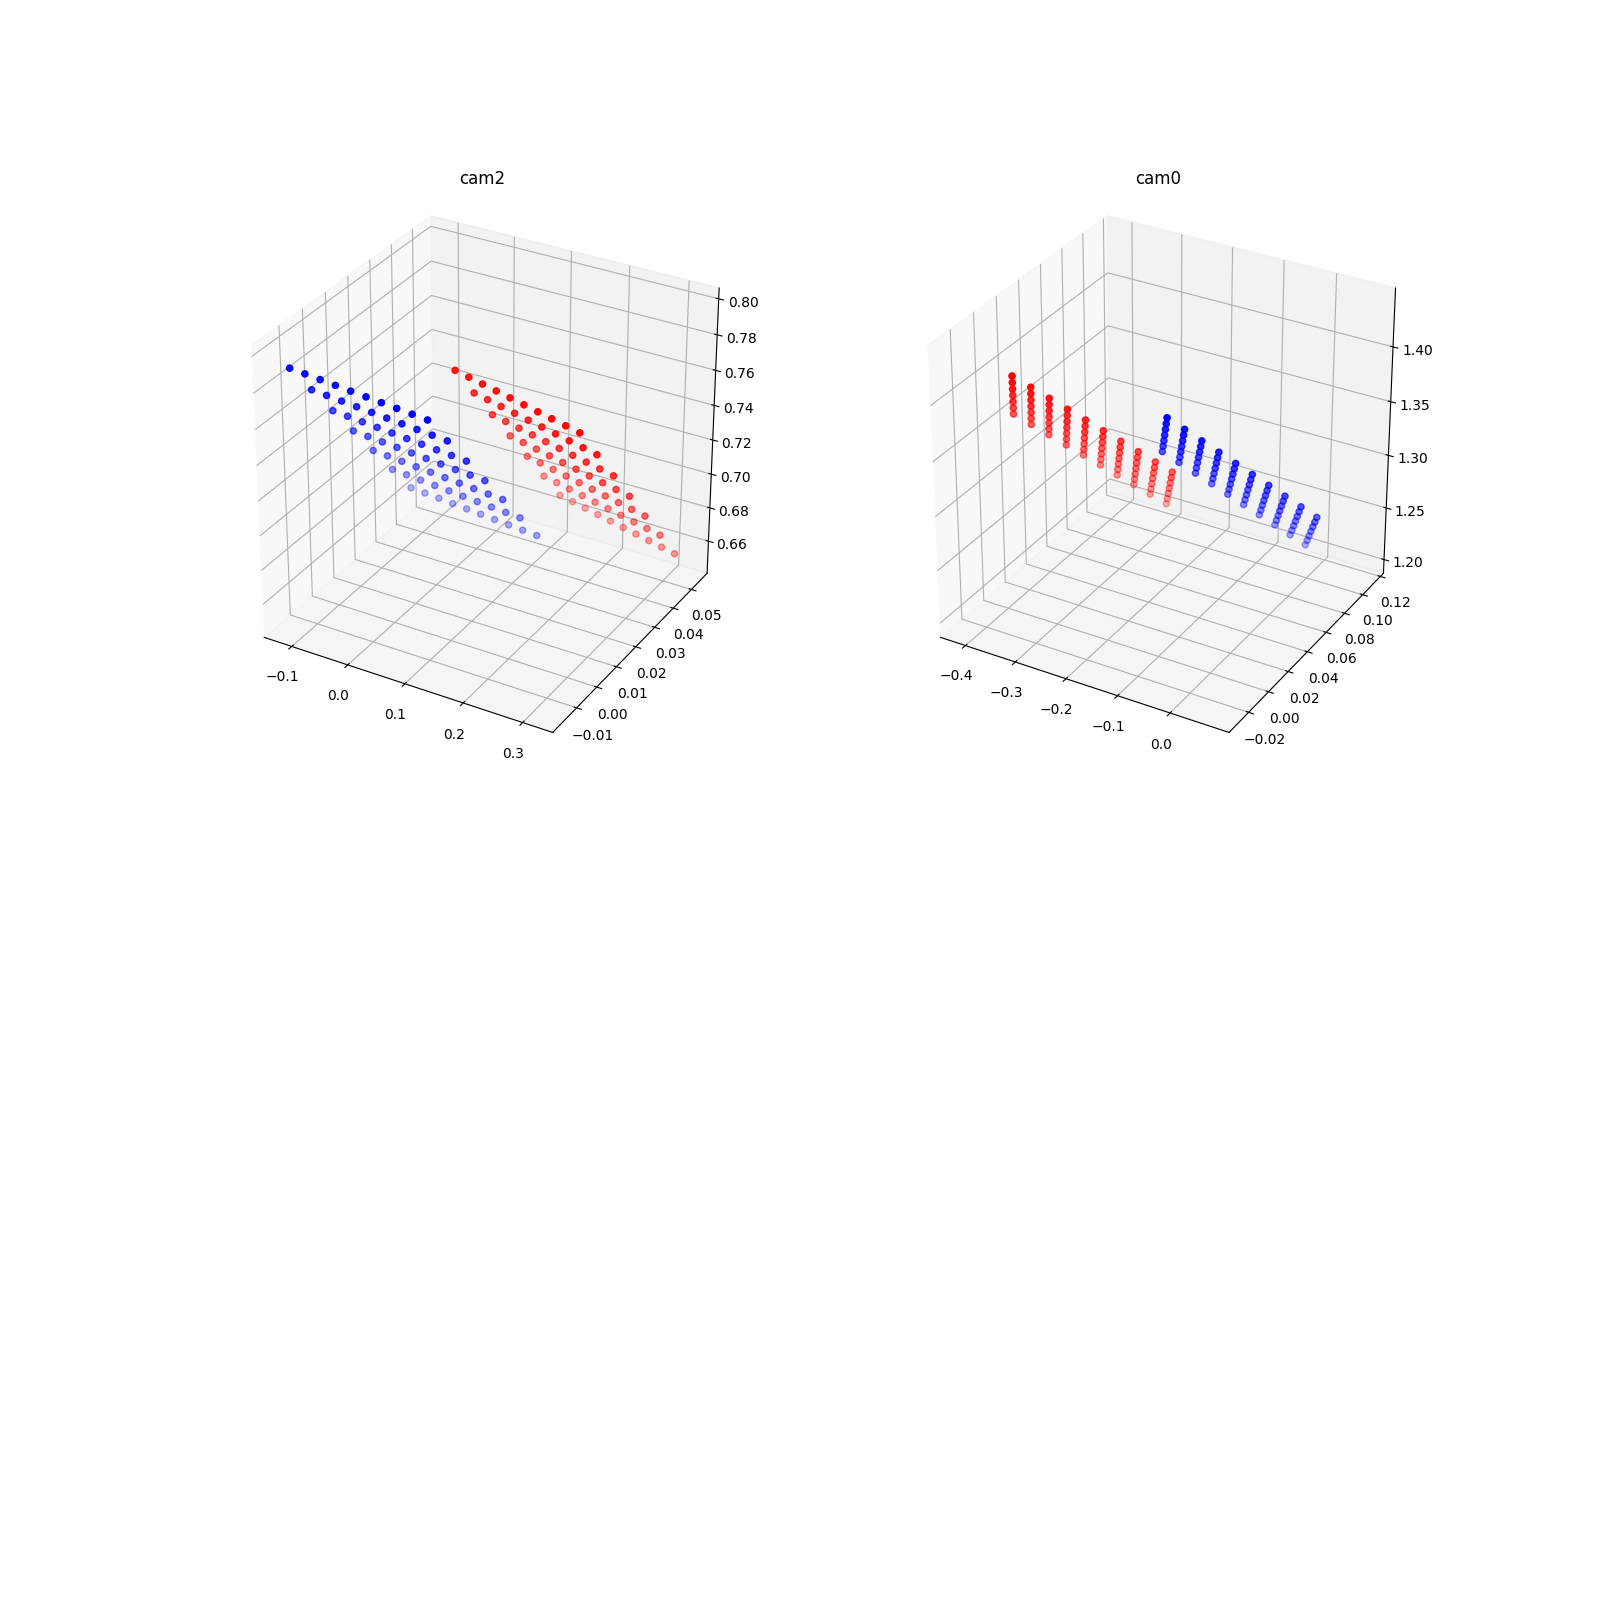
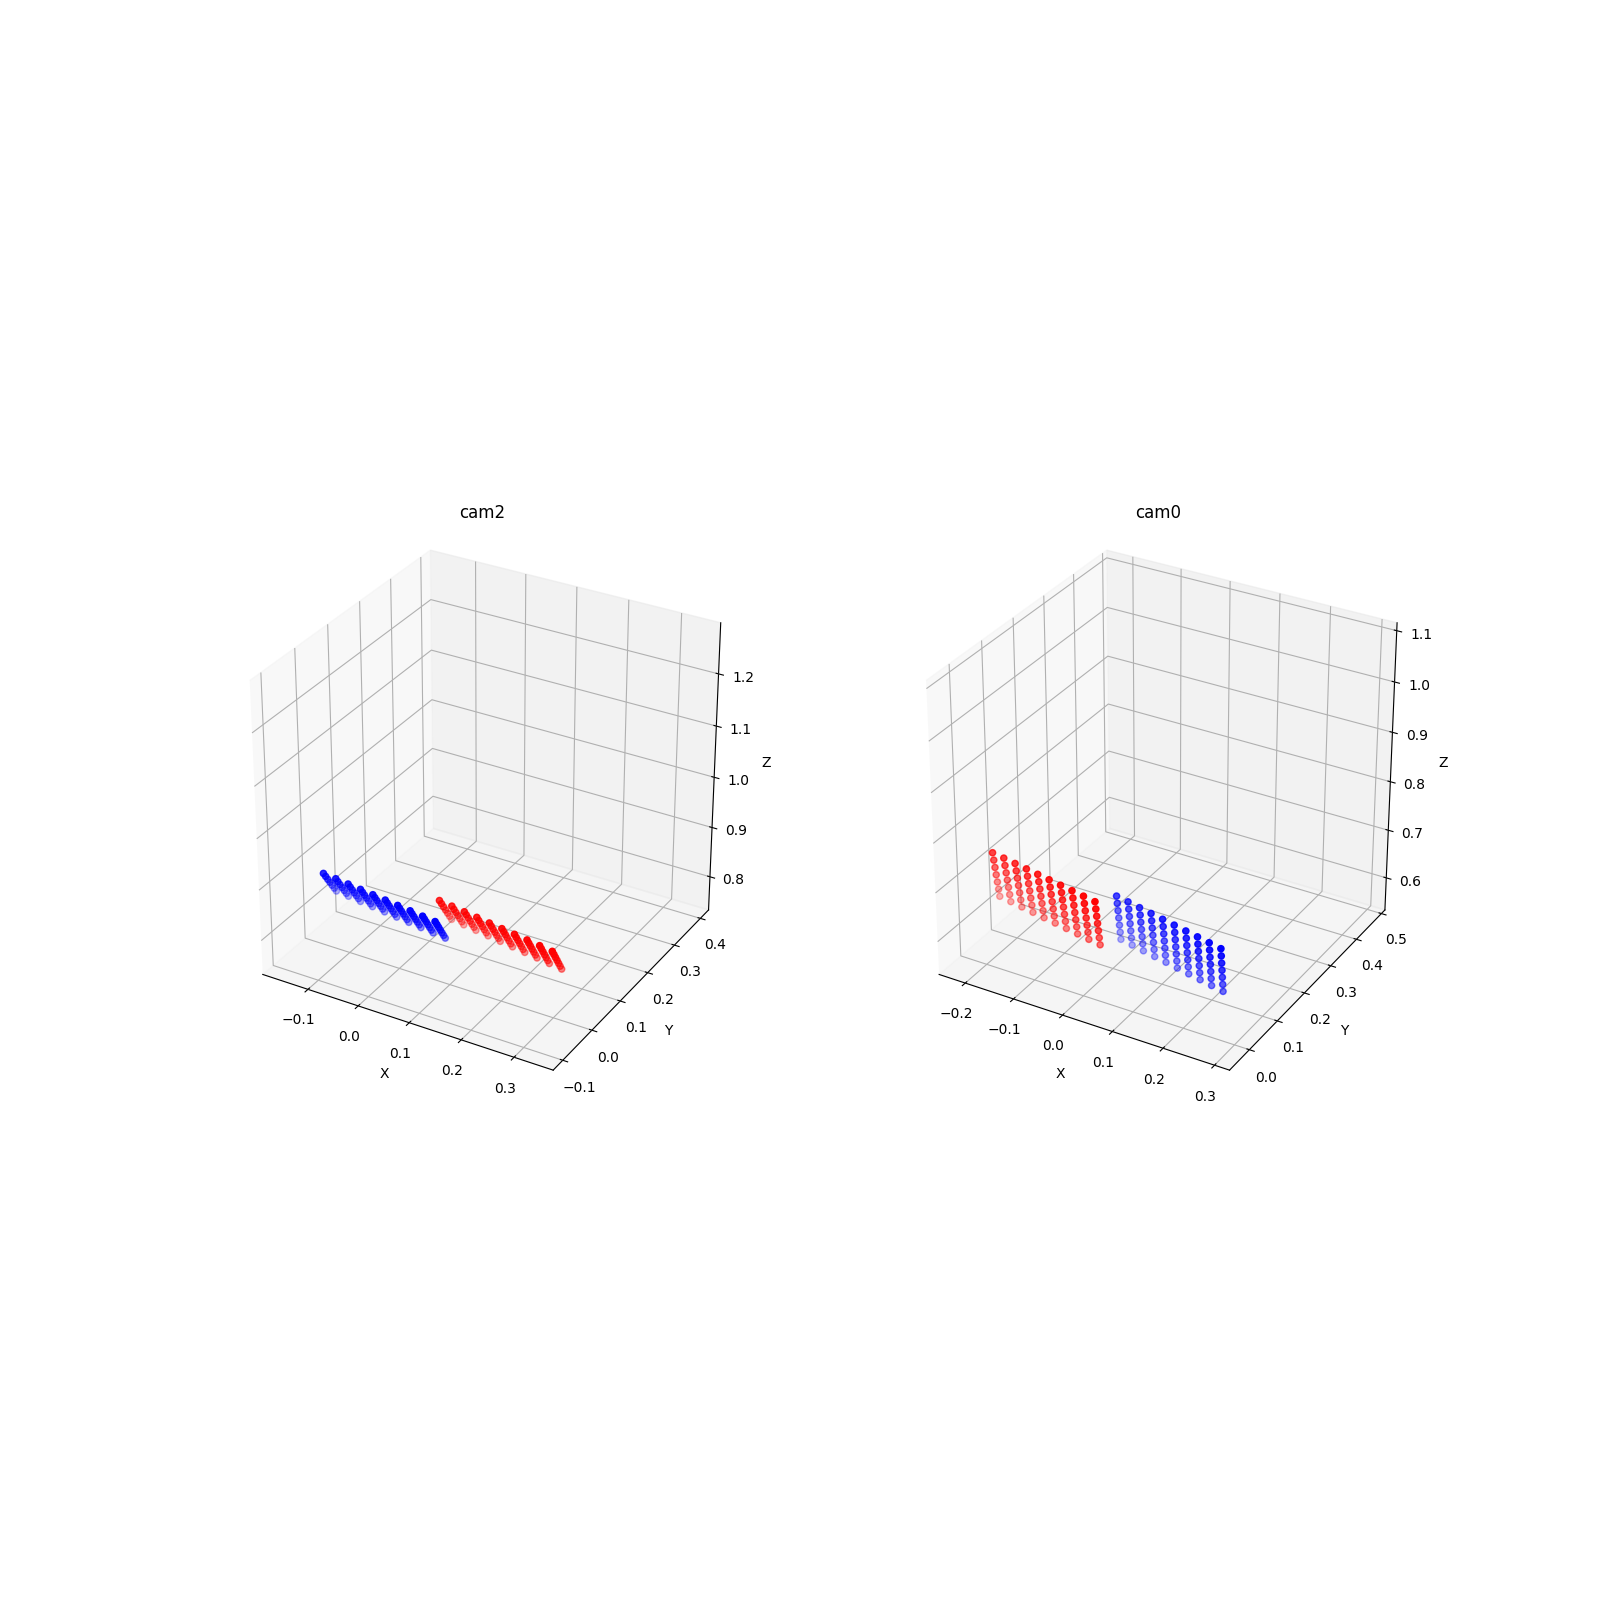
Modify the external virtual

diff --git a/Callibration/visualize_ext.py b/Callibration/visualize_ext.py
@@ -21,6 +21,7 @@ def visualize(settings, fig, elev, azim, roll, i):
         transformation_matrices[camera_name] = transformation_matrix
             
     ax = fig.add_subplot(1, 3, i, projection='3d', elev=elev, azim=azim, roll=roll)
+    ax.set_box_aspect([1,1,1])
     length = 0.5
     width = 0.5
     height = 0.5
@@ -96,28 +97,46 @@ def chessboard_projection(settings):
                 ret_center,rvecs_center, tvecs_center = cv2.solvePnP(objp, corners_center, mtxs[camera_name], dists[camera_name])
                 ret_cam,rvecs_cam, tvecs_cam = cv2.solvePnP(objp, corners_cam, mtxs[center_camera], dists[center_camera])
                 if ret_center == True and ret_cam == True:
-                    ax = fig.add_subplot(2, 2, i, projection='3d')
-                    transformation_matrix_center = np.eye(4)
                     R_cam, _ = cv2.Rodrigues(rvecs_cam)
                     R_center, _ = cv2.Rodrigues(rvecs_center)
+                    transformation_matrix_center = np.eye(4)
                     transformation_matrix_center[:3, :3] = R_center
                     transformation_matrix_center[:3, 3] = tvecs_center.reshape(3)
                     transformation_matrix_cam = np.eye(4)
                     transformation_matrix_cam[:3, :3] = R_cam
                     transformation_matrix_cam[:3, 3] = tvecs_cam.reshape(3)
+                    
                     objp_homogeneous = np.concatenate((objp, np.ones((objp.shape[0], 1))), axis=1)
                     coord_thru_cam = transformation_matrix_cam @ objp_homogeneous.T
                     coord_thru_center = transformation_matrix_center @ objp_homogeneous.T
                     projected_coord = transformation_matrices[camera_name] @ coord_thru_cam
+                    
                     error = np.mean(projected_coord[:3, :], axis=1) - np.mean(coord_thru_center[:3, :], axis=1)
                     print(f'{camera_name} has RMS projection error to center: {error}')
                     with open(f'results/extrinsic_calibration.log', 'a') as f:
                         f.write(f'{camera_name} has RMS projection error to center: {error}\n')
-                    
+                        
+                    ax = fig.add_subplot(1, 2, i, projection='3d')
+                    X_max = max(np.max(coord_thru_cam[0, :]), np.max(projected_coord[0, :]))
+                    X_min = min(np.min(coord_thru_cam[0, :]), np.min(projected_coord[0, :]))
+                    Y_max = max(np.max(coord_thru_cam[1, :]), np.max(projected_coord[1, :]))
+                    Y_min = min(np.min(coord_thru_cam[1, :]), np.min(projected_coord[1, :]))
+                    Z_max = max(np.max(coord_thru_cam[2, :]), np.max(projected_coord[2, :]))
+                    Z_min = min(np.min(coord_thru_cam[2, :]), np.min(projected_coord[2, :]))
+                    X_range = X_max - X_min
+                    Y_range = Y_max - Y_min
+                    Z_range = Z_max - Z_min
+                    max_range = max(X_range, Y_range, Z_range)
+                    ax.set_xlim(X_min - max_range * 0.1, X_min + max_range * 1.1)
+                    ax.set_ylim(Y_min - max_range * 0.1, Y_min + max_range * 1.1)
+                    ax.set_zlim(Z_min - max_range * 0.1, Z_min + max_range * 1.1)
+                    ax.set_box_aspect([1,1,1])
+                    ax.set_xlabel('X')
+                    ax.set_ylabel('Y')
+                    ax.set_zlabel('Z')
                     ax.scatter(coord_thru_cam[0, :], coord_thru_cam[1, :], coord_thru_cam[2, :], color='red')
                     ax.scatter(projected_coord[0, :], projected_coord[1, :], projected_coord[2, :], color='blue')
                     ax.set_title(f'{camera_name}')
-                    ax.set_box_aspect([1,1,1])
                     break
         i += 1
     
